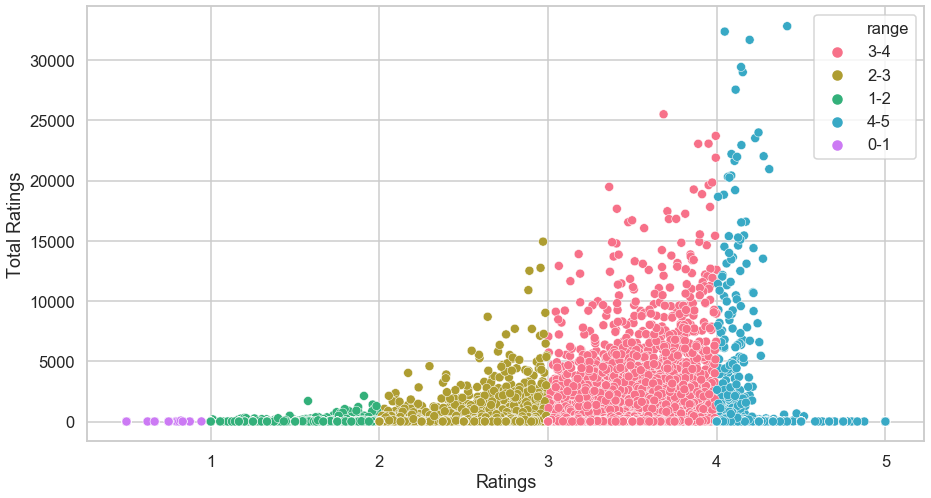
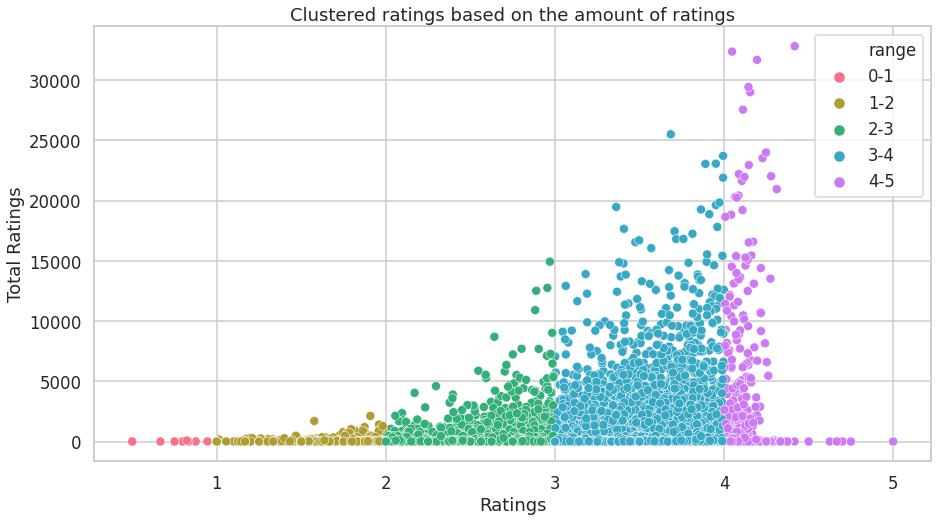
Added eda plots and solution overview file

diff --git a/solution_overview.html b/solution_overview.html
@@ -1,0 +1,23 @@
+<!DOCTYPE html>
+<html>
+
+<head>
+  <meta charset="utf-8">
+  <meta name="viewport" content="width=device-width, initial-scale=1.0">
+  <title>Model explanation</title>
+  <link rel="stylesheet" href="https://stackedit.io/style.css" />
+</head>
+
+<body class="stackedit">
+  <div class="stackedit__html"><p>The algorithms we use here to recommend movies rely on movies viewed by similar users, as well as similar movies a user has seen. The following is an overview of how they work.</p>
+<p><strong>Content based</strong><br>
+This algorithm makes a recommendation based on similar movies a user watched in the past.</p>
+<p><strong>Collaborative based</strong><br>
+This algorithm recommends a movie based on movies that others viewers have watched.</p>
+<blockquote>
+<p>Written with <a href="https://stackedit.io/">StackEdit</a>.</p>
+</blockquote>
+</div>
+</body>
+
+</html>

diff --git a/edsa_recommender.py b/edsa_recommender.py
@@ -45,7 +45,8 @@ def read_markdown_file(markdown_file):
     return Path(markdown_file).read_text()
 
 team = read_markdown_file("meet_the_team.html") 
-slides = read_markdown_file("slides.html")   
+slides = read_markdown_file("slides.html") 
+solution = read_markdown_file("solution_overview.html")  
 
 def local_css(file_name):
     with open(file_name) as f:
@@ -75,9 +76,12 @@ def main():
 
         # User-based preferences
         st.write('### Enter Your Three Favorite Movies')
-        movie_1 = st.selectbox('Fisrt Option',title_list[14930:15200])
-        movie_2 = st.selectbox('Second Option',title_list[25055:25255])
-        movie_3 = st.selectbox('Third Option',title_list[21100:21200])
+        movie_1 = st.selectbox('Fisrt Option',title_list[1493:1520])
+        movie_2 = st.selectbox('Second Option',title_list[2110:2120])
+        movie_3 = st.selectbox('Third Option',title_list[2110:2120])
+        #movie_1 = st.selectbox('Fisrt Option',title_list[14930:15200])
+        #movie_2 = st.selectbox('Second Option',title_list[25055:25255])
+        #movie_3 = st.selectbox('Third Option',title_list[21100:21200])
         fav_movies = [movie_1,movie_2,movie_3]
 
         # Perform top-10 movie recommendation generation
@@ -114,23 +118,32 @@ def main():
     # ------------- SAFE FOR ALTERING/EXTENSION -------------------
     if page_selection == "Solution Overview":
         st.title("Solution Overview")
-        st.write("This is an overview of the models used to recommend movies")
+        st.markdown(solution, unsafe_allow_html=True)
 
     if page_selection == "Data analysis and plots":
         st.title("Data analysis") 
-        st.write("A look at the data analysis")
-        if st.checkbox("Distribution of ratings"):
-            st.write("These plots give insights about the ratings given for the movies")
+        if st.checkbox("Ratings insights"):
+            st.subheader("These plots give insights about the ratings given for the movies")
+            st.write("The most common rating is 4 with over 2.5 million ratings")
             st.image("resources/imgs/plots/number_of_ratings.png", width=500)
+            st.image("resources/imgs/plots/ratings_distribution.png", width=500)
             st.write("These are the highest rated movies. We have selected the top 20")
             st.image("resources/imgs/plots/highest_rated_movies.png", width=500)
-        if st.checkbox("Distribution of movies"):
-            st.write("Drama, comedy, action and thriller were the genres with the highest number of movies")
+        if st.checkbox("Movie insights"):
+            st.subheader("A number of factors influence movie choices and below we take a look at \
+                        some of those factors such as popular themes, actors, directors and era")
+            st.write("The longest movie is 246 minutes long")
+            st.image("resources/imgs/plots/movie_runtime.png", width=500)
+            st.write("Genres with the highest number of movies were drama, comedy, action and thriller")
             st.image("resources/imgs/plots/number_of_movies_by_genre2.png", width=500)
-            st.write("A large number of movies were released in the 1900s compared to the 1800s and 2000s")
+            st.write("The majority of movies in our database were released in the 1900s")
             st.image("resources/imgs/plots/movies_per_era.png", width=500)
-            st.write("These are the most popular themes")
-            st.image("resources/imgs/plots/wordcloud.png", width=500)
+            st.write("These are the most popular themes.")
+            st.image("resources/imgs/plots/wordcloud2.png", width=500)
+            st.image("resources/imgs/plots/top_20_directors.png", width=500)
+            #st.image("resources/imgs/plots/director_movies.png", width=500)
+            st.image("resources/imgs/plots/frequent_actors.png", width=500)
+
 
     if page_selection == "Pitch":
         st.title("Pitch slide deck")

diff --git a/recommenders/collaborative_based.py b/recommenders/collaborative_based.py
@@ -34,7 +34,7 @@ movies_df = pd.read_csv('resources/data/movies.csv',sep = ',',delimiter=',')
 ratings_df = pd.read_csv('resources/data/ratings.csv')
 ratings_df.drop(['timestamp'], axis=1,inplace=True)
 # Building the Model
-model=pickle.load(open('resources/models/SVD100k.pkl', 'rb'))
+model=pickle.load(open('resources/models/SVD100000.pkl', 'rb'))
 
 def prediction_item(item_id):
     """Short summary.

diff --git a/solution_overview.md b/solution_overview.md
@@ -1,0 +1,9 @@
+The algorithms we use here to recommend movies rely on movies viewed by similar users, as well as similar movies a user has seen. The following is an overview of how they work.
+
+**Content based**
+This algorithm makes a recommendation based on similar movies a user watched in the past.
+
+**Collaborative based**
+This algorithm recommends a movie based on movies that others viewers have watched. 
+
+> Written with [StackEdit](https://stackedit.io/).
